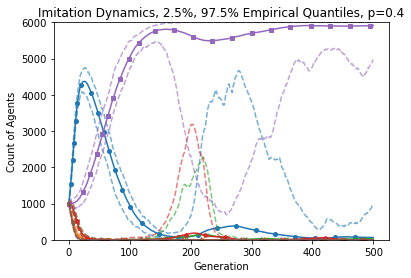
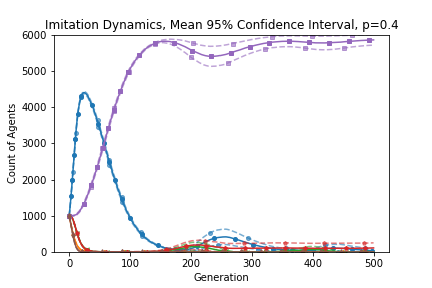
finished lottery quantiles

diff --git a/lottery_home.py b/lottery_home.py
@@ -19,11 +19,13 @@ import matplotlib.pyplot as plt
 
 reps = 120
 
-run = 1
+run = 0
 
-MeansOnly = False
-save = 0
-filename = 'lotteryp04_me'
+MeansOnly = 0
+
+CI = 0
+save = 1
+filename = 'lotteryp4_me_quantiles_empirical'
 
 parameters = {
     'seed': 16,
@@ -50,6 +52,10 @@ props = results.variables.LotteryModel.groupby(['t']).mean()
 
 pct_up = results.variables.LotteryModel.groupby(['t']).quantile(0.975)
 pct_down = results.variables.LotteryModel.groupby(['t']).quantile(0.025)
+
+if CI:
+    pct_up = props + 1/math.sqrt(reps)*1.96*results.variables.LotteryModel.groupby(['t']).std()
+    pct_down = props - 1/math.sqrt(reps)*1.96*results.variables.LotteryModel.groupby(['t']).std()
 #pct_up = pct_up.rename('q_up')
 #pct_down = pct_up.rename('q_down')
 colours = ['tab:blue', 'tab:orange', 'tab:green', 'tab:red', 'tab:purple', 'tab:brown',\
@@ -60,10 +66,10 @@ markers =['o', '*', 'x', 'p', 's', 'd', 'p', 'h']
 
 
 for i in range(len(props.columns)):
-    y = props[props.columns[i]]
-    y1 = pct_up[props.columns[i]]
-    y2 = pct_down[props.columns[i]]
-    x = props.index
+    y = props[props.columns[i]][0:500]
+    y1 = pct_up[props.columns[i]][0:500]
+    y2 = pct_down[props.columns[i]][0:500]
+    x = props.index[0:500]
     plt.plot(x,y, c= colours[i], marker = markers[i], markevery = 0.05, ms = 4, linewidth = 1.5)
     if not MeansOnly:
         plt.plot(x,y1, c = colours[i], linestyle = 'dashed', marker = markers[i], markevery = 0.1,ms = 4, alpha = 0.6)
@@ -72,7 +78,7 @@ for i in range(len(props.columns)):
 plt.xlabel('Generation')
 plt.ylabel('Count of Agents')
 plt.ylim(0,parameters['agents'])
-plt.title(f'Imitation Dynamics, 2.5%, 97.5% Empirical Quantiles, p={parameters["lottery_p"]}')
+plt.title(f'Imitation Dynamics, Empirical 2.5%, 97.5% Quantiles, p={parameters["lottery_p"]}')
 
 if save: 
     plt.savefig(f'Overleaf/images/{filename}.png')

diff --git a/comparing_graphs_home.py b/comparing_graphs_home.py
@@ -41,7 +41,7 @@ parameters = {
     'graph_p':0.1,
     'gtype': ap.Values('WS', 'TAG', 'BA', 'RRG'),
     'atype': ReplicatorLocal,
-    'replicator_alpha': 0.0, #1 is pure replicator, 0 is imitation
+    'replicator_alpha': 1.0, #1 is pure replicator, 0 is imitation
     'plot_G': 0 #gives the summary plot of the graph for each experiment
 }
 
